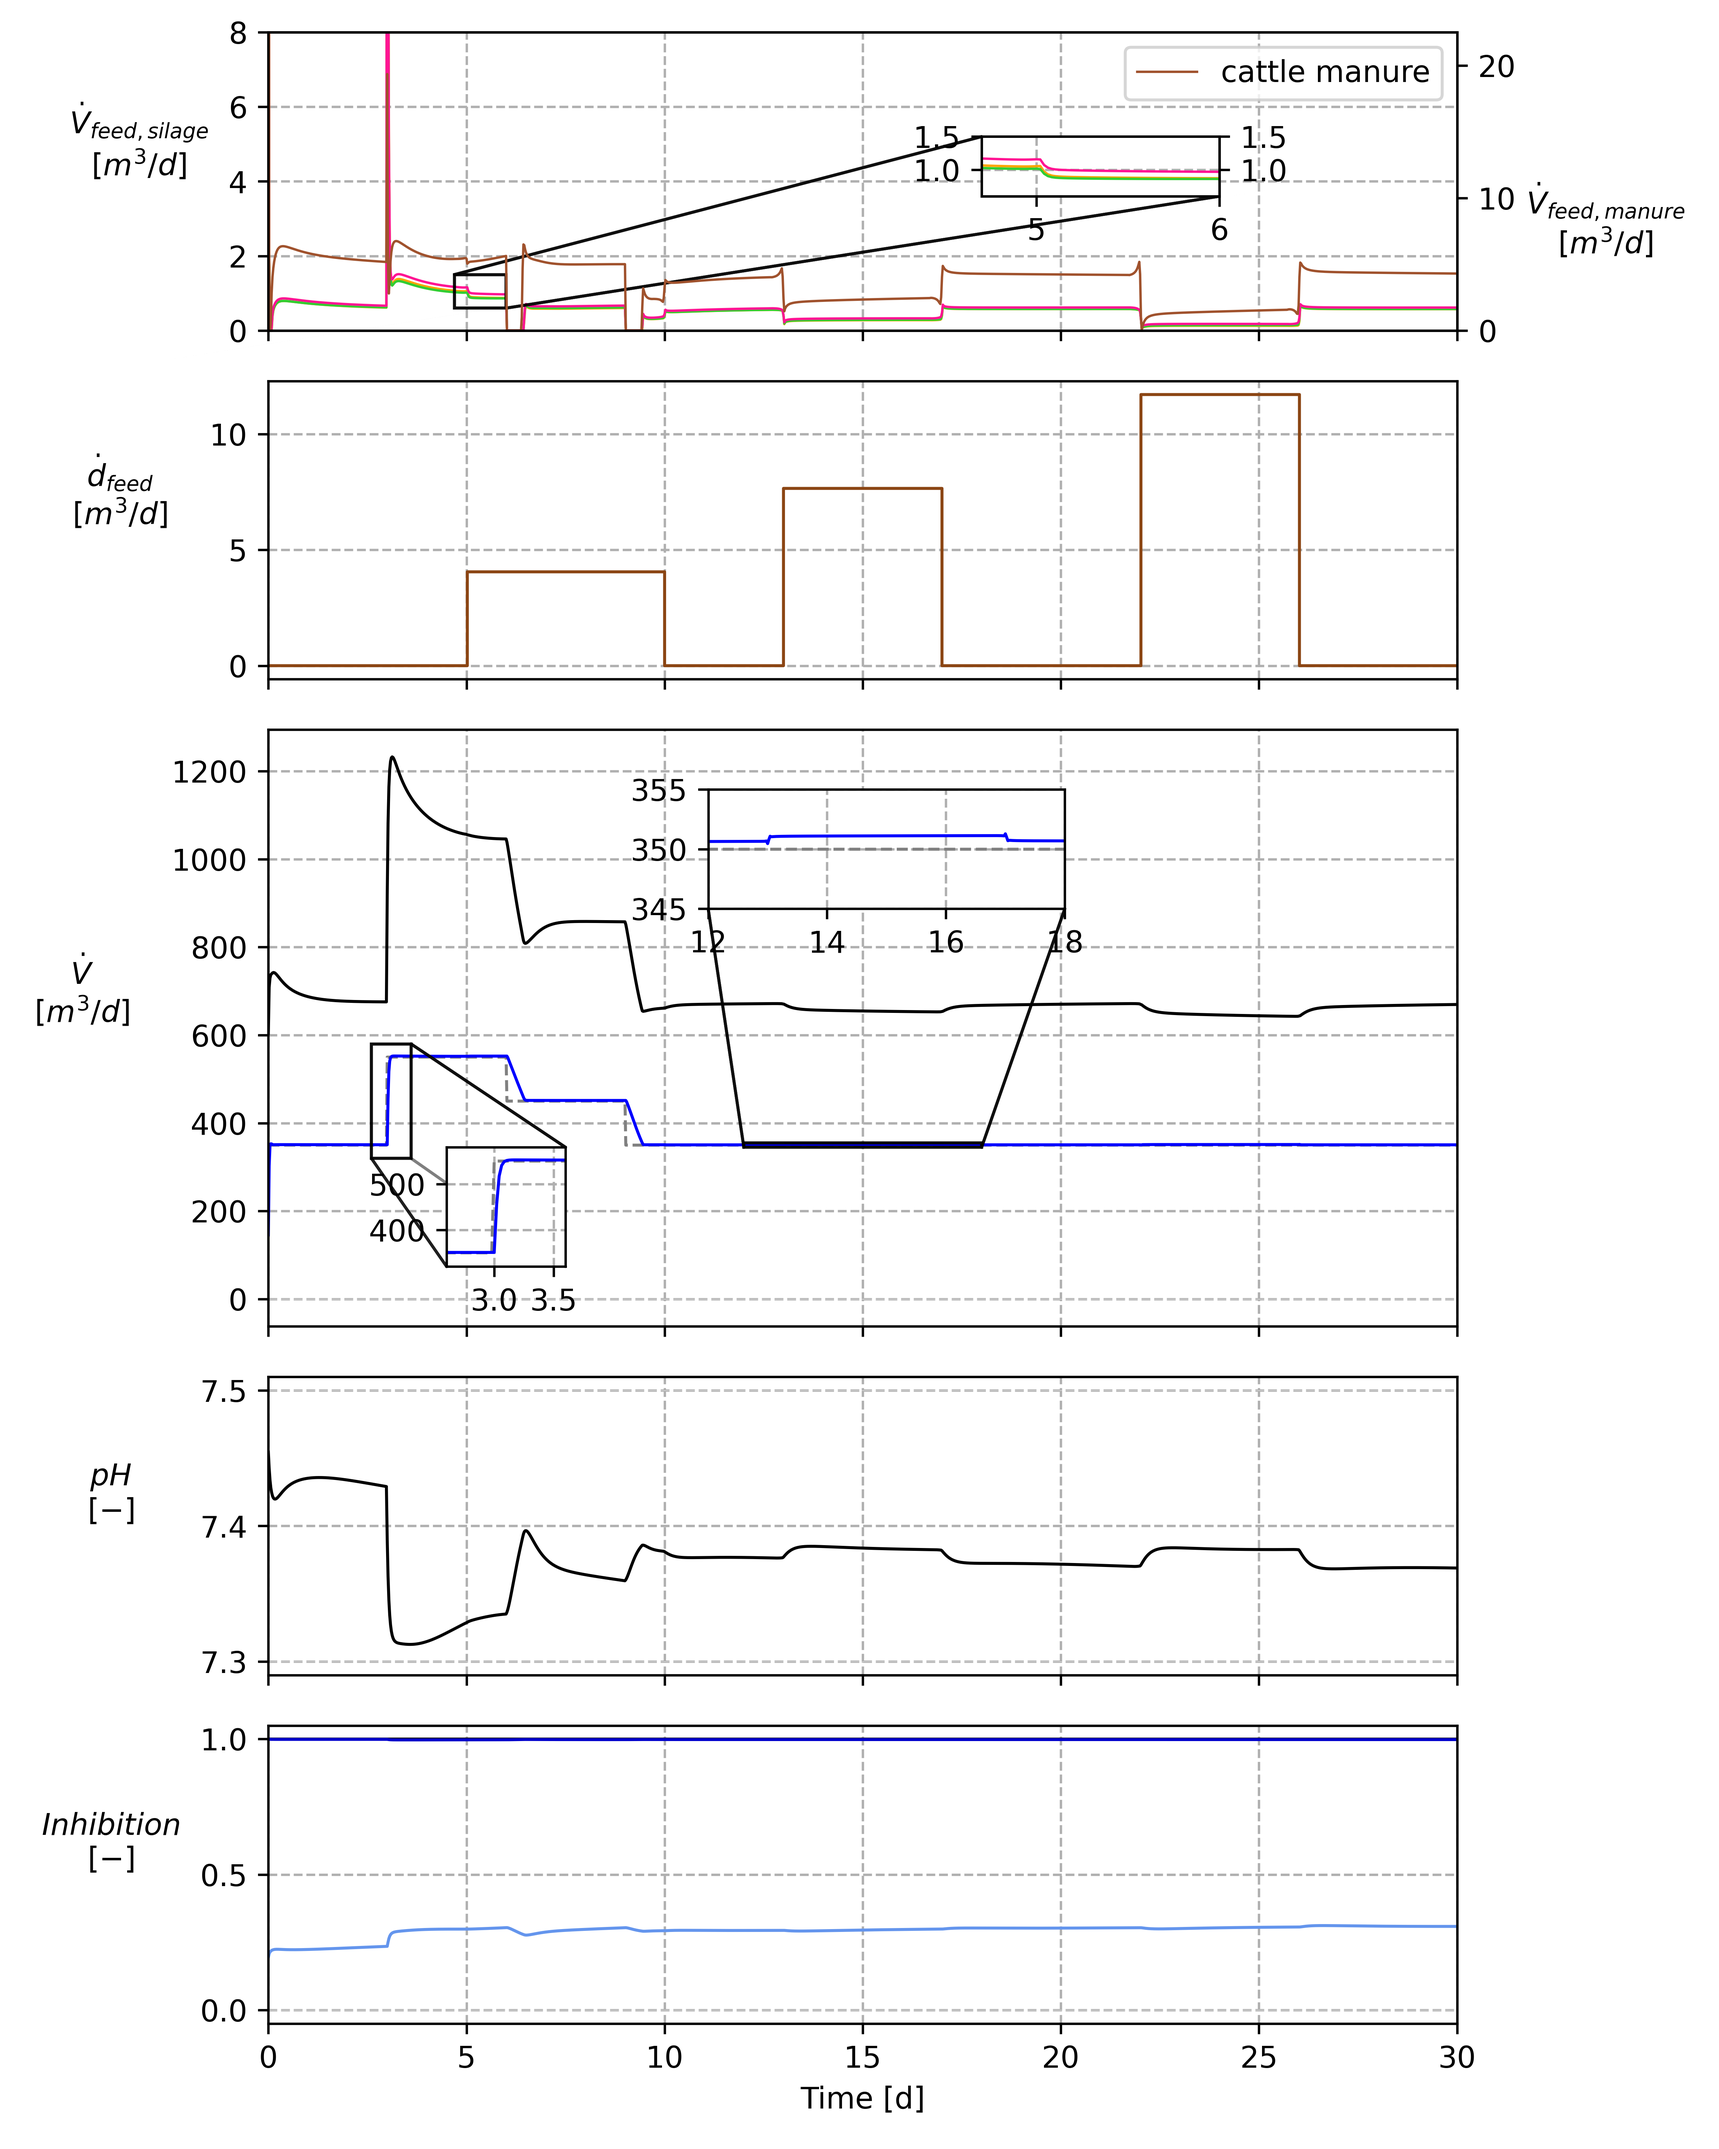
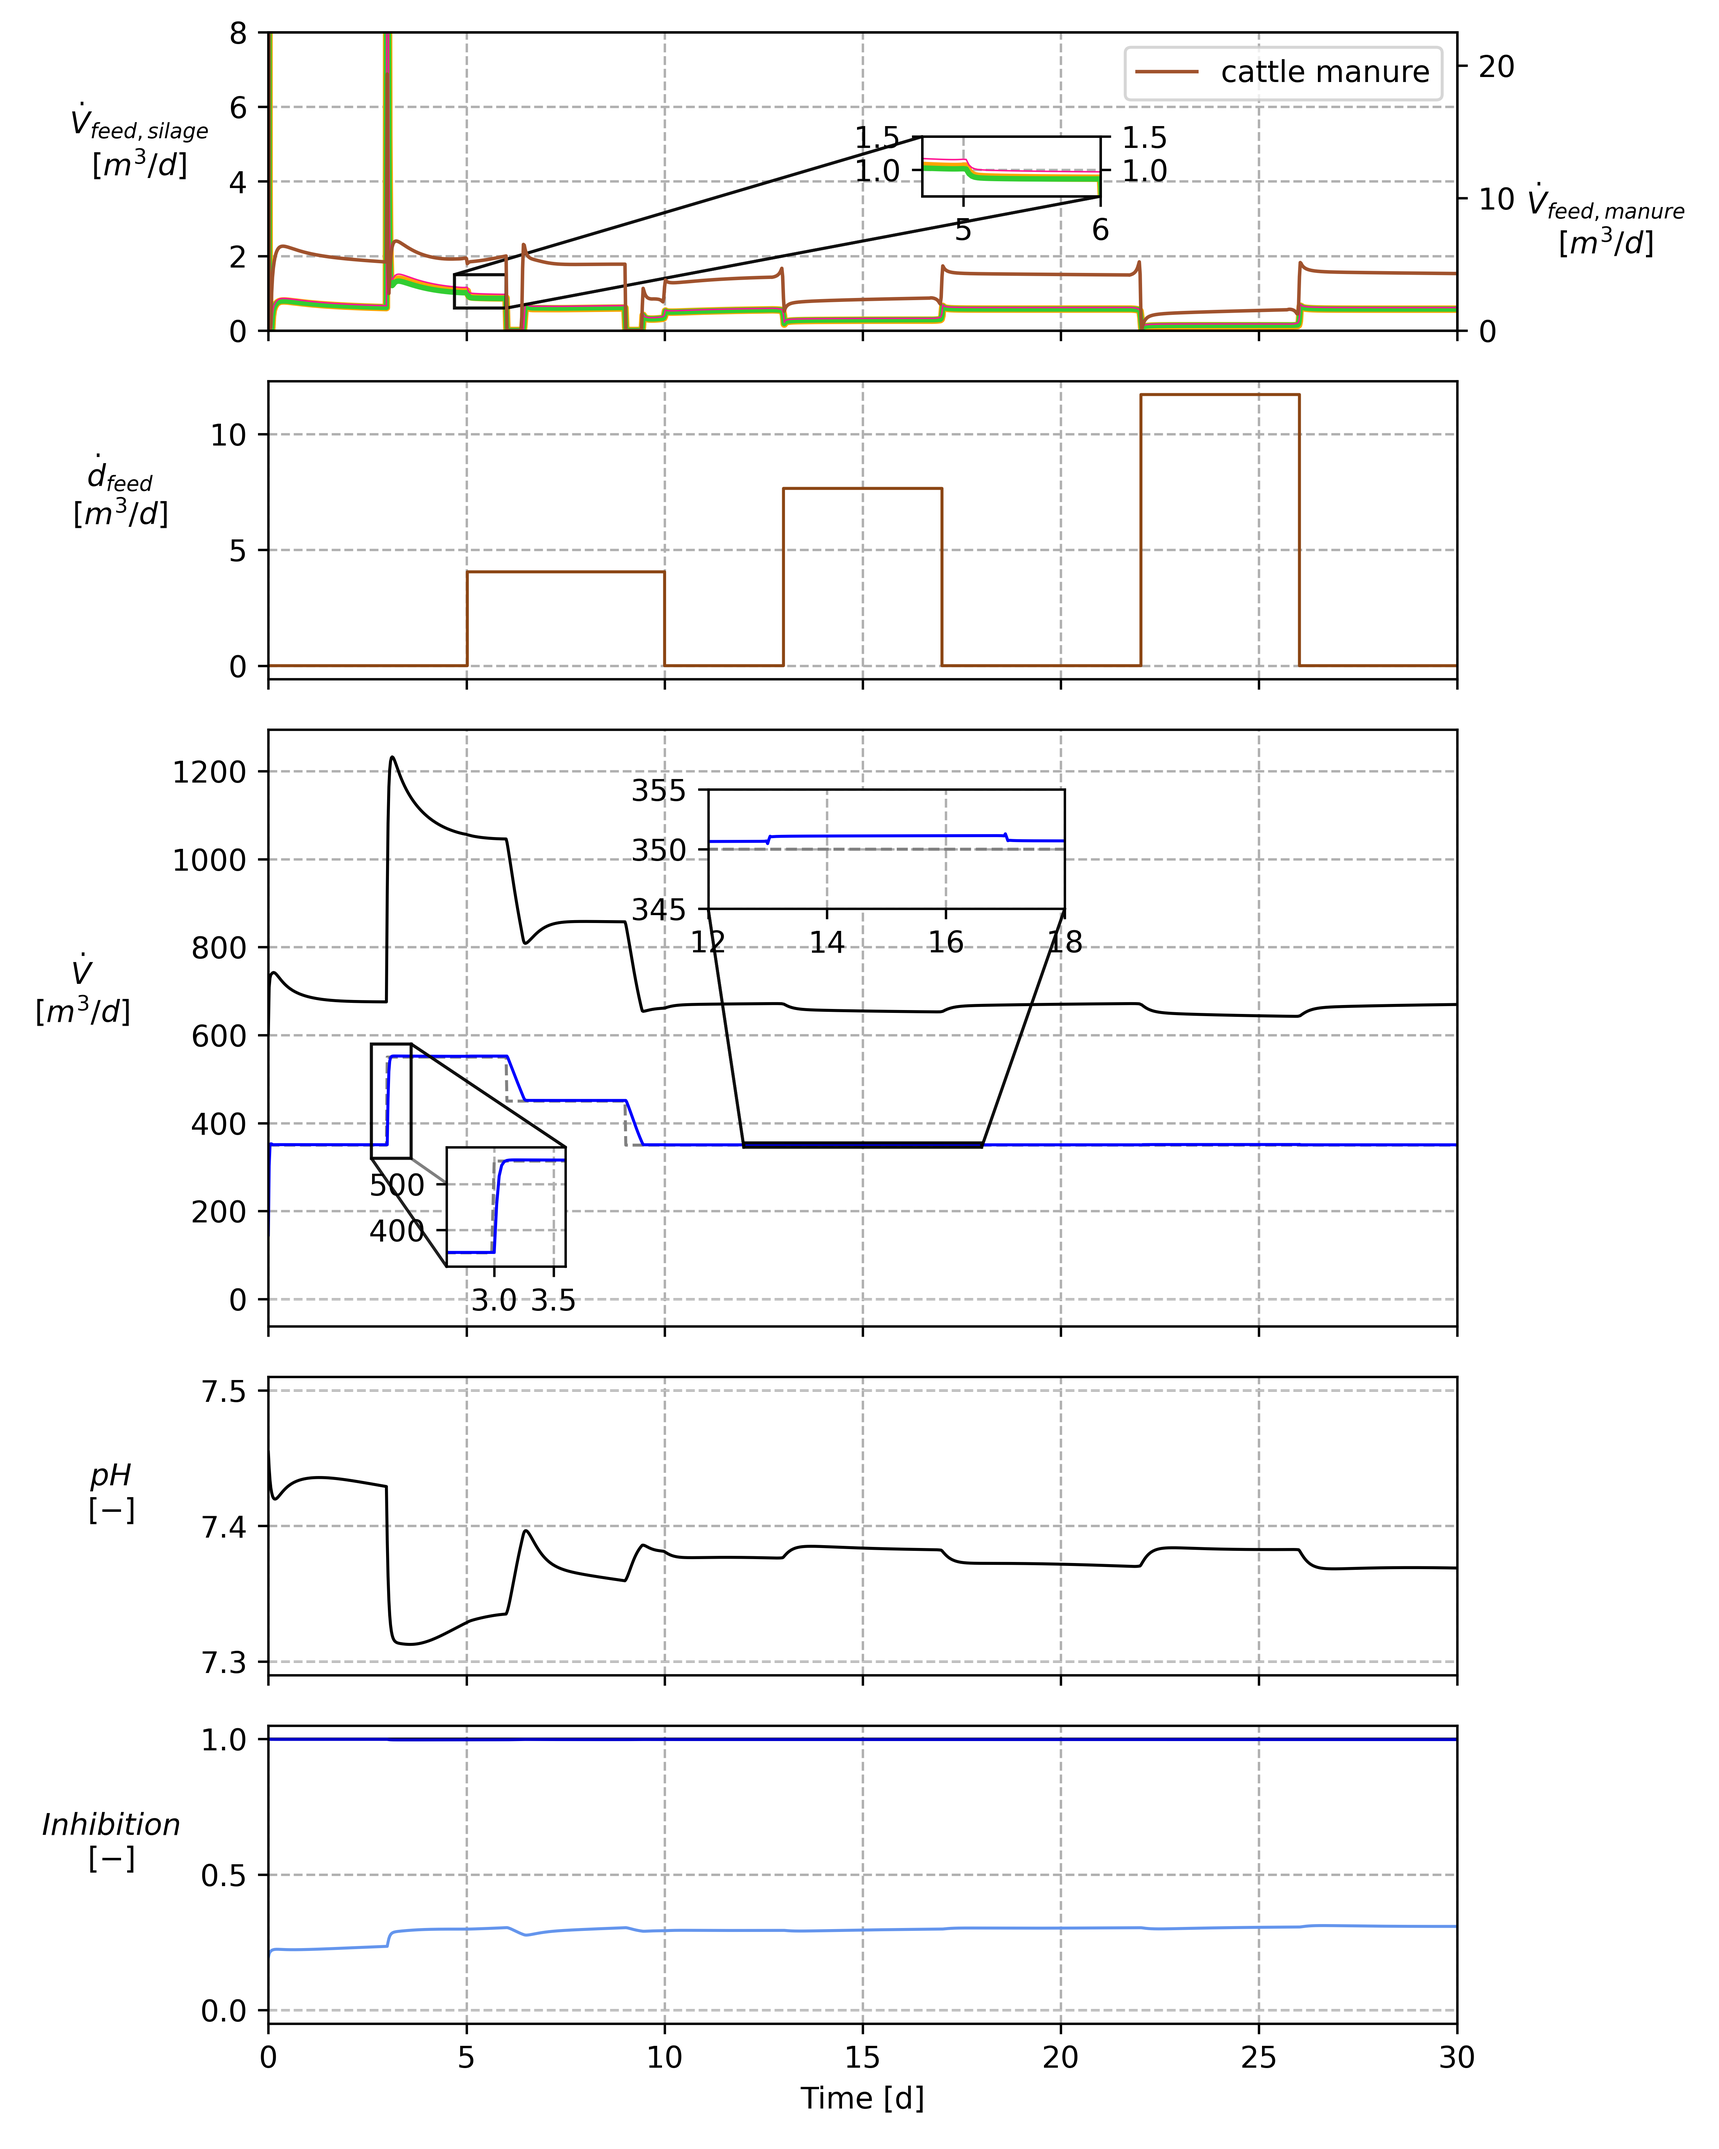
add different linewidths for substrates

Changed region(s): [[0.2812, 0.0623, 0.8438, 0.1558], [0.2188, 0.0312, 0.25, 0.1558], [0.1562, 0.1247, 0.1875, 0.1558]]

diff --git a/ad_meal_prep_control/postprocessing.py b/ad_meal_prep_control/postprocessing.py
@@ -54,6 +54,17 @@ class PostProcessing:
         "SUGAR_BEET_SILAGE_VERY_UNCERTAIN": "saddlebrown",
     }
 
+    # substrates' linewidth specs:
+    _SUBSTRATE_LINEWIDTHS = {
+        "CORN_SILAGE": 0.8,
+        "GRASS_SILAGE": 1.2,
+        "CATTLE_MANURE": 0.5,
+        "SUGAR_BEET_SILAGE": 1.5,
+        "SUGAR_BEET_SILAGE_VERY_UNCERTAIN": 1,
+    }
+    _LINEWIDTH_sub_min = 0.5
+    _LINEWIDTH_sub_max = 2.5
+
     def __post_init__(self):
         self._data_simulation = do_mpc.data.load_results(
             str(Path(self.result_directory, f"{self.scenario_name}_mpc_results.pkl"))
@@ -108,6 +119,7 @@ class PostProcessing:
         if plot_inputs:
             ax_inputs_liquid = axes[0].twinx()
 
+            # inset axes for substrates:
             if input_inset_axis is not None:
                 # unpack elements "days" and "ylimit" of input_inset_axis and save:
                 x1, x2, y1, y2 = (
@@ -125,6 +137,7 @@ class PostProcessing:
 
                 axins_input_feed.grid(True, linestyle="--")
 
+            # other inset axes:
             inset_axes = {}
             if other_inset_axes is not None:
                 for inset_ax in other_inset_axes:
@@ -191,6 +204,7 @@ class PostProcessing:
 
                         x_num = int(plot_var_name.split("_")[-1])
 
+                    # plot outputs:
                     elif plot_var_name[0] == "y":
                         y_num = int(plot_var_name.split("_")[-1])
 
@@ -227,14 +241,25 @@ class PostProcessing:
                                     linewidth=1.0,
                                 )
 
+                    # plot inputs (controlled substrates):
                     elif plot_var_name[0] == "u":
                         colors = [
                             self._SUBSTRATE_COLORS[sub_name]
                             for sub_name in self._scenario_meta_data["sub_names"]
                         ]
+                        # # modify linewidths:
+                        # linewidths = [
+                        #     self._SUBSTRATE_LINEWIDTHS[sub_name]
+                        #     for sub_name in self._scenario_meta_data["sub_names"]
+                        # ]
+                        # linearly interpolate linewidths (first thick, then thin):
+                        linewidths = [(self._LINEWIDTH_sub_min - self._LINEWIDTH_sub_max) / (self._num_u - 1) * sub_k +
+                                       self._LINEWIDTH_sub_max for sub_k in range(self._num_u)]
 
+                        # iterate over all substrates:
                         for i in range(self._num_u):
                             plt_kwargs["color"] = colors[i]
+                            plt_kwargs["linewidth"] = linewidths[i]
 
                             sub_name = self._scenario_meta_data["sub_names"][i]
                             sub = getattr(substrates, sub_name)
@@ -257,7 +282,7 @@ class PostProcessing:
                                     **plt_kwargs,
                                 )
 
-                            else:
+                            else:  # liquid substrates
                                 ax_inputs_liquid.plot(
                                     self._data_simulator._time,
                                     self._data_simulator._u[:, i]
@@ -318,6 +343,7 @@ class PostProcessing:
                                 0.0, self._scenario_meta_data["u_max"]["liquid"] * 1.1
                             )
 
+                    # plot disturbance feeding:
                     elif plot_var_name.startswith("dictated_sub_feed"):
                         feed_num = int(plot_var_name.split("_")[-1])
 

diff --git a/ad_meal_prep_control/plot_generation/plot_scenario_1b.py b/ad_meal_prep_control/plot_generation/plot_scenario_1b.py
@@ -68,7 +68,7 @@ for scenario_name, plot_save_name in zip(scenario_names, plot_save_name):
                 r"$pH$" + "\n" + r"$[-]$",
                 {
                     "y_4": PlotVarProperty(
-                        mpl_properties=MPLProperties(linewidth=1, linestyle="-", color = 'black'),
+                        mpl_properties=MPLProperties(linewidth=1, linestyle="-", color='black'),
                         label='$pH_{plant}$',
                     )
                 },
@@ -112,8 +112,13 @@ for scenario_name, plot_save_name in zip(scenario_names, plot_save_name):
         input_inset_axis={
             "days": (4.7, 6),
             "ylimit": (0.6, 1.5),
-            "inset_axis_specs": (0.6, 0.45, 0.2, 0.2),
+            "inset_axis_specs": (0.55, 0.45, 0.15, 0.2),
         },
+        # {
+        #     "days": (26, 28),
+        #     "ylimit": (0.5, 1.2),
+        #     "inset_axis_specs": (0.7, 0.45, 0.1, 0.2),
+        # }
         other_inset_axes=[
             {
                 "plot_idx": 2,

diff --git a/ad_meal_prep_control/plot_generation/Controller_output_plotting/Output_Scenario_1b.py b/ad_meal_prep_control/plot_generation/Controller_output_plotting/Output_Scenario_1b.py
@@ -13,6 +13,7 @@ def controller_plotting_1b(scenario_names=None):
     for scenario in scenario_names:
         with open(f'../scenarios/results/plots/{scenario}.pkl', 'rb') as file:
             fig = pkl.load(file)
+            fig.set_dpi(1000)
         mpc = load_results(f'../scenarios/results/{scenario}_mpc_results.pkl')
         metadata = load_results(f'../scenarios/results/{scenario}_scenario_meta_data.pkl')
         # Graph
